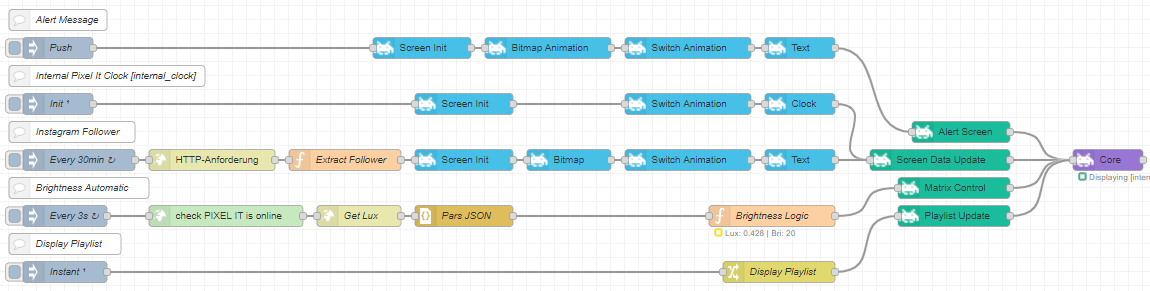
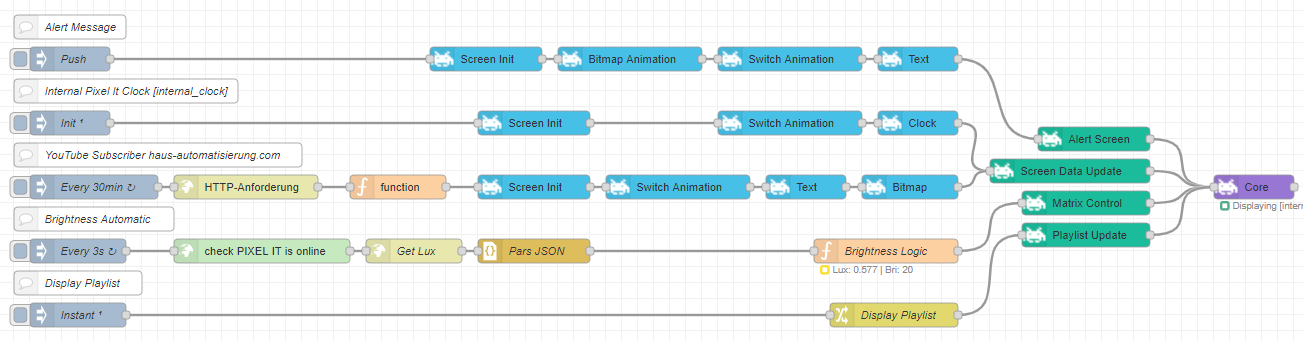
update

Changed region(s): [[0.0, 0.0309, 1.0, 0.9897]]

diff --git a/src/pixelit/tools.md b/src/pixelit/tools.md
@@ -35,8 +35,8 @@ und etwas daran rumwerkeln und probieren.
 ![](/einsteiger_flow.png)   
 Abhängigkeit / dependence: [Is online Node](https://flows.nodered.org/node/node-red-contrib-isonline)
 ~~~ json
-[{"id":"35ecb3fe.70a82c","type":"Core","z":"c11e4807.0cce48","name":"Core","ip":"","masterTopic":"","x":1770,"y":340,"wires":[[]]},{"id":"2ae8103e.2bfa8","type":"Alert Screen","z":"c11e4807.0cce48","name":"Alert Screen","x":1560,"y":300,"wires":[["35ecb3fe.70a82c"]]},{"id":"a6448772.da11e8","type":"Screen Data Update","z":"c11e4807.0cce48","name":"Screen Data Update","x":1530,"y":340,"wires":[["35ecb3fe.70a82c"]]},{"id":"5d1d17a4.067008","type":"Matrix Control","z":"c11e4807.0cce48","name":"Matrix Control","x":1550,"y":380,"wires":[["35ecb3fe.70a82c"]]},{"id":"aaebf8a3.b93f98","type":"Playlist Update","z":"c11e4807.0cce48","name":"Playlist Update","x":1550,"y":420,"wires":[["35ecb3fe.70a82c"]]},{"id":"8dda7744.154fc8","type":"comment","z":"c11e4807.0cce48","name":"Alert Message","info":"","x":270,"y":140,"wires":[]},{"id":"2ae3a14.25d9d5e","type":"inject","z":"c11e4807.0cce48","name":"Push","repeat":"","crontab":"","once":false,"onceDelay":"0","topic":"","payload":"","payloadType":"date","x":270,"y":180,"wires":[["a8d0668.e8c4098"]]},{"id":"8ad9260b.cf8098","type":"Switch Animation","z":"c11e4807.0cce48","name":"Switch Animation","aktiv":"true","animation":"fade","x":1170,"y":180,"wires":[["b3ad9478.01eb48"]]},{"id":"b3ad9478.01eb48","type":"Text","z":"c11e4807.0cce48","name":"Text","intextString":"Pixel!!","inbigFont":"false","inscrollText":"true","inscrollTextDelay":"0","incenterText":"false","inposX":"8","inposY":"1","incolorR":"255","incolorG":"255","incolorB":"255","x":1330,"y":180,"wires":[["2ae8103e.2bfa8"]]},{"id":"a8d0668.e8c4098","type":"Screen Init","z":"c11e4807.0cce48","name":"Screen Init","inscreenName":"bra","induration":"10","x":790,"y":180,"wires":[["b3f96a15.ff4fb8"]]},{"id":"b3f96a15.ff4fb8","type":"Bitmap Animation","z":"c11e4807.0cce48","name":"Bitmap Animation","indata":"4","inanimationDelay":"100","inrubberbanding":"false","inlimitLoops":"0","x":970,"y":180,"wires":[["8ad9260b.cf8098"]]},{"id":"f3f2a895.193e38","type":"http request","z":"c11e4807.0cce48","name":"Get Lux","method":"GET","ret":"txt","url":"http://192.168.0.137/api/luxsensor","tls":"","x":700,"y":420,"wires":[["d0be6521.9a50c8"]]},{"id":"d0be6521.9a50c8","type":"json","z":"c11e4807.0cce48","name":"Pars JSON","property":"payload","action":"","pretty":false,"x":850,"y":420,"wires":[["b4533301.6b818"]]},{"id":"5206c6e3.422eb8","type":"inject","z":"c11e4807.0cce48","name":"Every 3s","repeat":"3","crontab":"","once":true,"onceDelay":"0","topic":"","payload":"","payloadType":"date","x":280,"y":420,"wires":[["66da05c9.5ef47c"]]},{"id":"66da05c9.5ef47c","type":"is online","z":"c11e4807.0cce48","name":"check PIXEL IT is online","url":"192.168.0.137","action":"1","x":510,"y":420,"wires":[["f3f2a895.193e38"]]},{"id":"b4533301.6b818","type":"function","z":"c11e4807.0cce48","name":"Brightness Logic","func":"var lux = msg.payload.lux;\nvar brightness = 255;\nvar currentBrightness = context.get(\"currentBrightness\")||-1;\n\nif (lux <= 1)\n{\n    brightness = 20;\n}\nelse if (lux <= 5)\n{\n    brightness = 30;\n}\nelse if (lux <= 10)\n{\n    brightness = 45;\n}\nelse if (lux <= 20)\n{\n    brightness = 60;\n}\nelse if (lux <= 100)\n{\n    brightness = 80;\n}\nelse if (lux <= 250)\n{\n    brightness = 100;\n}\n\nmsg.provider = \"Brightness Logic\";\nmsg.brightness = brightness;\nnode.status({ fill: \"yellow\", shape: \"ring\", text: \"Lux: \" + lux.toFixed(3) +\" | Bri: \" + brightness });\n\nif (currentBrightness != brightness)\n{\n    node.status({ fill: \"green\", shape: \"ring\", text: \"Lux: \" + lux.toFixed(3) +\" | Bri: \" + brightness +\" send!\" });\n    context.set(\"currentBrightness\", brightness);\n    return msg;\n}","outputs":1,"noerr":0,"x":1290,"y":420,"wires":[["5d1d17a4.067008"]]},{"id":"b127dcc7.abdee","type":"comment","z":"c11e4807.0cce48","name":"Brightness Automatic","info":"","x":300,"y":380,"wires":[]},{"id":"ab30e681.56e698","type":"comment","z":"c11e4807.0cce48","name":"Internal Pixel It Clock [internal_clock]","info":"","x":340,"y":220,"wires":[]},{"id":"e2f79120.fb761","type":"inject","z":"c11e4807.0cce48","name":"Init","repeat":"","crontab":"","once":true,"onceDelay":"0.1","topic":"","payload":"","payloadType":"date","x":270,"y":260,"wires":[["341fc2fc.7d033e"]]},{"id":"341fc2fc.7d033e","type":"Screen Init","z":"c11e4807.0cce48","name":"Screen Init","inscreenName":"internal_clock","induration":"10","x":850,"y":260,"wires":[["4c2acf36.39c45"]]},{"id":"4c2acf36.39c45","type":"Switch Animation","z":"c11e4807.0cce48","name":"Switch Animation","aktiv":"true","animation":"fade","x":1170,"y":260,"wires":[["9729bfde.a1f27"]]},{"id":"9729bfde.a1f27","type":"Clock","z":"c11e4807.0cce48","name":"Clock","inswitchAktiv":"true","inswitchSec":"6","inwithSeconds":"false","incolorR":"255","incolorG":"255","incolorB":"255","x":1330,"y":260,"wires":[["a6448772.da11e8"]]},{"id":"b92c80c4.a60e9","type":"change","z":"c11e4807.0cce48","name":"Display Playlist","rules":[{"t":"set","p":"payload","pt":"msg","to":"[{\"screenName\":\"Instagram\"},{\"screenName\":\"internal_clock\"}]","tot":"json"}],"action":"","property":"","from":"","to":"","reg":false,"x":1300,"y":500,"wires":[["aaebf8a3.b93f98"]]},{"id":"2723a613.25f89a","type":"inject","z":"c11e4807.0cce48","name":"Instant","repeat":"","crontab":"","once":true,"onceDelay":"1","topic":"","payload":"","payloadType":"date","x":280,"y":500,"wires":[["b92c80c4.a60e9"]]},{"id":"c97178af.32b168","type":"comment","z":"c11e4807.0cce48","name":"Display Playlist","info":"","x":280,"y":460,"wires":[]},{"id":"e964f00e.834e6","type":"http request","z":"c11e4807.0cce48","name":"","method":"GET","ret":"txt","url":"https://www.instagram.com/_o0dennis0o_/","tls":"","x":490,"y":340,"wires":[["7eeaa50.ee7705c"]]},{"id":"7eeaa50.ee7705c","type":"function","z":"c11e4807.0cce48","name":"Extract Follower","func":"var myRegexp = /edge_followed_by\":{\"count\":(.*?)}/g;\nvar match = myRegexp.exec(msg.payload);\nmsg.payload = match[1];\nreturn msg;","outputs":1,"noerr":0,"x":680,"y":340,"wires":[["a5a65c0c.f2497"]]},{"id":"dd221267.735cb","type":"inject","z":"c11e4807.0cce48","name":"Every 30min","repeat":"1800","crontab":"","once":true,"onceDelay":0.1,"topic":"","payload":"","payloadType":"date","x":300,"y":340,"wires":[["e964f00e.834e6"]]},{"id":"ae1584ea.048d98","type":"Text","z":"c11e4807.0cce48","name":"Text","intextString":"{{payload}}","inbigFont":"true","inscrollText":"false","inscrollTextDelay":"0","incenterText":"true","inposX":"7","inposY":"1","incolorR":"255","incolorG":"255","incolorB":"255","x":1330,"y":340,"wires":[["a6448772.da11e8"]]},{"id":"df87efe.91ab01","type":"Switch Animation","z":"c11e4807.0cce48","name":"Switch Animation","aktiv":"true","animation":"fade","x":1170,"y":340,"wires":[["ae1584ea.048d98"]]},{"id":"a5a65c0c.f2497","type":"Screen Init","z":"c11e4807.0cce48","name":"Screen Init","inscreenName":"Instagram","induration":"10","x":850,"y":340,"wires":[["ef71268e.6f2fc8"]]},{"id":"ef71268e.6f2fc8","type":"Bitmap","z":"c11e4807.0cce48","name":"Bitmap","indata":"1","inposX":"0","inposY":"0","inwidth":"8","inheight":"8","x":1000,"y":340,"wires":[["df87efe.91ab01"]]},{"id":"5638a83a.89b728","type":"comment","z":"c11e4807.0cce48","name":"Instagram Follower","info":"","x":290,"y":300,"wires":[]}]
- ~~~
+[{"id":"35ecb3fe.70a82c","type":"Core","z":"c11e4807.0cce48","name":"Core","ip":"192.168.0.137","masterTopic":"","x":1550,"y":340,"wires":[[]]},{"id":"2ae8103e.2bfa8","type":"Alert Screen","z":"c11e4807.0cce48","name":"Alert Screen","x":1350,"y":280,"wires":[["35ecb3fe.70a82c"]]},{"id":"a6448772.da11e8","type":"Screen Data Update","z":"c11e4807.0cce48","name":"Screen Data Update","x":1320,"y":320,"wires":[["35ecb3fe.70a82c"]]},{"id":"5d1d17a4.067008","type":"Matrix Control","z":"c11e4807.0cce48","name":"Matrix Control","x":1340,"y":360,"wires":[["35ecb3fe.70a82c"]]},{"id":"aaebf8a3.b93f98","type":"Playlist Update","z":"c11e4807.0cce48","name":"Playlist Update","x":1340,"y":400,"wires":[["35ecb3fe.70a82c"]]},{"id":"8dda7744.154fc8","type":"comment","z":"c11e4807.0cce48","name":"Alert Message","info":"","x":70,"y":140,"wires":[]},{"id":"2ae3a14.25d9d5e","type":"inject","z":"c11e4807.0cce48","name":"Push","repeat":"","crontab":"","once":false,"onceDelay":"0","topic":"","payload":"","payloadType":"date","x":70,"y":180,"wires":[["a8d0668.e8c4098"]]},{"id":"8ad9260b.cf8098","type":"Switch Animation","z":"c11e4807.0cce48","name":"Switch Animation","aktiv":"true","animation":"fade","x":970,"y":180,"wires":[["b3ad9478.01eb48"]]},{"id":"b3ad9478.01eb48","type":"Text","z":"c11e4807.0cce48","name":"Text","intextString":"Pixel!!","inbigFont":"false","inscrollText":"true","inscrollTextDelay":"0","incenterText":"false","inposX":"8","inposY":"1","incolorR":"255","incolorG":"255","incolorB":"255","x":1130,"y":180,"wires":[["2ae8103e.2bfa8"]]},{"id":"a8d0668.e8c4098","type":"Screen Init","z":"c11e4807.0cce48","name":"Screen Init","inscreenName":"bra","induration":"10","x":590,"y":180,"wires":[["b3f96a15.ff4fb8"]]},{"id":"b3f96a15.ff4fb8","type":"Bitmap Animation","z":"c11e4807.0cce48","name":"Bitmap Animation","indata":"4","inanimationDelay":"100","inrubberbanding":"false","inlimitLoops":"0","x":770,"y":180,"wires":[["8ad9260b.cf8098"]]},{"id":"f3f2a895.193e38","type":"http request","z":"c11e4807.0cce48","name":"Get Lux","method":"GET","ret":"txt","url":"http://192.168.0.137/api/luxsensor","tls":"","x":500,"y":420,"wires":[["d0be6521.9a50c8"]]},{"id":"d0be6521.9a50c8","type":"json","z":"c11e4807.0cce48","name":"Pars JSON","property":"payload","action":"","pretty":false,"x":650,"y":420,"wires":[["b4533301.6b818"]]},{"id":"5206c6e3.422eb8","type":"inject","z":"c11e4807.0cce48","name":"Every 3s","repeat":"3","crontab":"","once":true,"onceDelay":"0","topic":"","payload":"","payloadType":"date","x":80,"y":420,"wires":[["66da05c9.5ef47c"]]},{"id":"66da05c9.5ef47c","type":"is online","z":"c11e4807.0cce48","name":"check PIXEL IT is online","url":"192.168.0.137","action":"1","x":310,"y":420,"wires":[["f3f2a895.193e38"]]},{"id":"b4533301.6b818","type":"function","z":"c11e4807.0cce48","name":"Brightness Logic","func":"var lux = msg.payload.lux;\nvar brightness = 255;\nvar currentBrightness = context.get(\"currentBrightness\")||-1;\n\nif (lux <= 1)\n{\n    brightness = 20;\n}\nelse if (lux <= 5)\n{\n    brightness = 30;\n}\nelse if (lux <= 10)\n{\n    brightness = 45;\n}\nelse if (lux <= 20)\n{\n    brightness = 60;\n}\nelse if (lux <= 100)\n{\n    brightness = 80;\n}\nelse if (lux <= 250)\n{\n    brightness = 100;\n}\n\nmsg.provider = \"Brightness Logic\";\nmsg.brightness = brightness;\nnode.status({ fill: \"yellow\", shape: \"ring\", text: \"Lux: \" + lux.toFixed(3) +\" | Bri: \" + brightness });\n\nif (currentBrightness != brightness)\n{\n    node.status({ fill: \"green\", shape: \"ring\", text: \"Lux: \" + lux.toFixed(3) +\" | Bri: \" + brightness +\" send!\" });\n    context.set(\"currentBrightness\", brightness);\n    return msg;\n}","outputs":1,"noerr":0,"x":1090,"y":420,"wires":[["5d1d17a4.067008"]]},{"id":"b127dcc7.abdee","type":"comment","z":"c11e4807.0cce48","name":"Brightness Automatic","info":"","x":100,"y":380,"wires":[]},{"id":"ab30e681.56e698","type":"comment","z":"c11e4807.0cce48","name":"Internal Pixel It Clock [internal_clock]","info":"","x":140,"y":220,"wires":[]},{"id":"e2f79120.fb761","type":"inject","z":"c11e4807.0cce48","name":"Init","repeat":"","crontab":"","once":true,"onceDelay":"0.1","topic":"","payload":"","payloadType":"date","x":70,"y":260,"wires":[["341fc2fc.7d033e"]]},{"id":"341fc2fc.7d033e","type":"Screen Init","z":"c11e4807.0cce48","name":"Screen Init","inscreenName":"internal_clock","induration":"10","x":650,"y":260,"wires":[["4c2acf36.39c45"]]},{"id":"4c2acf36.39c45","type":"Switch Animation","z":"c11e4807.0cce48","name":"Switch Animation","aktiv":"true","animation":"fade","x":970,"y":260,"wires":[["9729bfde.a1f27"]]},{"id":"9729bfde.a1f27","type":"Clock","z":"c11e4807.0cce48","name":"Clock","inswitchAktiv":"true","inswitchSec":"6","inwithSeconds":"false","incolorR":"255","incolorG":"255","incolorB":"255","x":1130,"y":260,"wires":[["a6448772.da11e8"]]},{"id":"b92c80c4.a60e9","type":"change","z":"c11e4807.0cce48","name":"Display Playlist","rules":[{"t":"set","p":"payload","pt":"msg","to":"[{\"screenName\":\"youtube\"},{\"screenName\":\"internal_clock\"}]","tot":"json"}],"action":"","property":"","from":"","to":"","reg":false,"x":1100,"y":500,"wires":[["aaebf8a3.b93f98"]]},{"id":"2723a613.25f89a","type":"inject","z":"c11e4807.0cce48","name":"Instant","repeat":"","crontab":"","once":true,"onceDelay":"1","topic":"","payload":"","payloadType":"date","x":80,"y":500,"wires":[["b92c80c4.a60e9"]]},{"id":"c97178af.32b168","type":"comment","z":"c11e4807.0cce48","name":"Display Playlist","info":"","x":80,"y":460,"wires":[]},{"id":"bc796b29.c45958","type":"http request","z":"c11e4807.0cce48","name":"","method":"GET","ret":"txt","paytoqs":"ignore","url":"https://www.youtube.com/c/Hausautomatisierung-com/featured","tls":"","persist":false,"proxy":"","authType":"","x":290,"y":340,"wires":[["4b5fd2b7.abda5c"]]},{"id":"c575cf12.ad6e3","type":"inject","z":"c11e4807.0cce48","name":"Every 30min","repeat":"1800","crontab":"","once":true,"onceDelay":0.1,"topic":"","payload":"","payloadType":"date","x":100,"y":340,"wires":[["bc796b29.c45958"]]},{"id":"b9f66719.b28f08","type":"comment","z":"c11e4807.0cce48","name":"YouTube Subscriber haus-automatisierung.com","info":"","x":180,"y":300,"wires":[]},{"id":"f7a07316.502a7","type":"Text","z":"c11e4807.0cce48","name":"Text","intextString":"{{payload}}","inbigFont":"false","inscrollText":"false","inscrollTextDelay":"0","incenterText":"true","inposX":"7","inposY":"1","incolorR":"255","incolorG":"255","incolorB":"255","x":990,"y":340,"wires":[["3c9b6509.9b36aa"]]},{"id":"2cae9cc6.c4b114","type":"Switch Animation","z":"c11e4807.0cce48","name":"Switch Animation","aktiv":"true","animation":"fade","x":830,"y":340,"wires":[["f7a07316.502a7"]]},{"id":"945e4c9f.0d3f3","type":"Screen Init","z":"c11e4807.0cce48","name":"Screen Init","inscreenName":"youtube","induration":"10","x":650,"y":340,"wires":[["2cae9cc6.c4b114"]]},{"id":"3c9b6509.9b36aa","type":"Bitmap","z":"c11e4807.0cce48","name":"Bitmap","indata":"45","inposX":"0","inposY":"0","inwidth":"8","inheight":"8","x":1120,"y":340,"wires":[["a6448772.da11e8"]]},{"id":"4b5fd2b7.abda5c","type":"function","z":"c11e4807.0cce48","name":"","func":"const test = msg.payload.match(/\"subscriberCountText\":{\"simpleText\":\"(\\d+.\\d+)/);\nmsg.payload = test[1].replace('.','');\nreturn msg;","outputs":1,"noerr":0,"initialize":"","finalize":"","x":480,"y":340,"wires":[["945e4c9f.0d3f3"]]}]
+~~~
 
 ### Core
 ---
